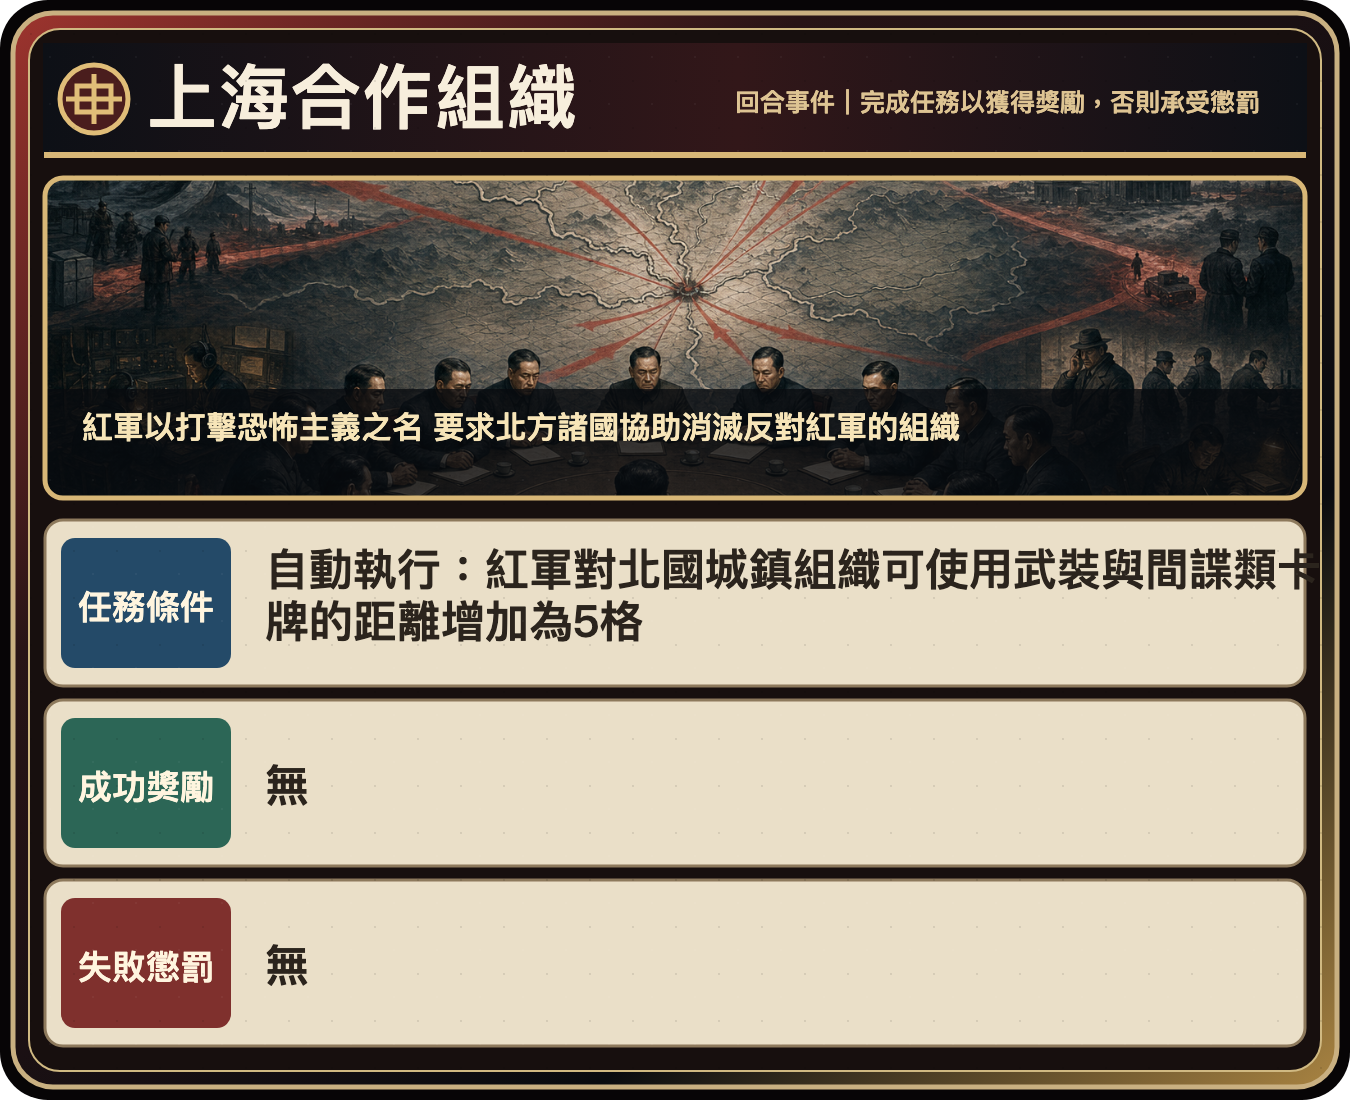
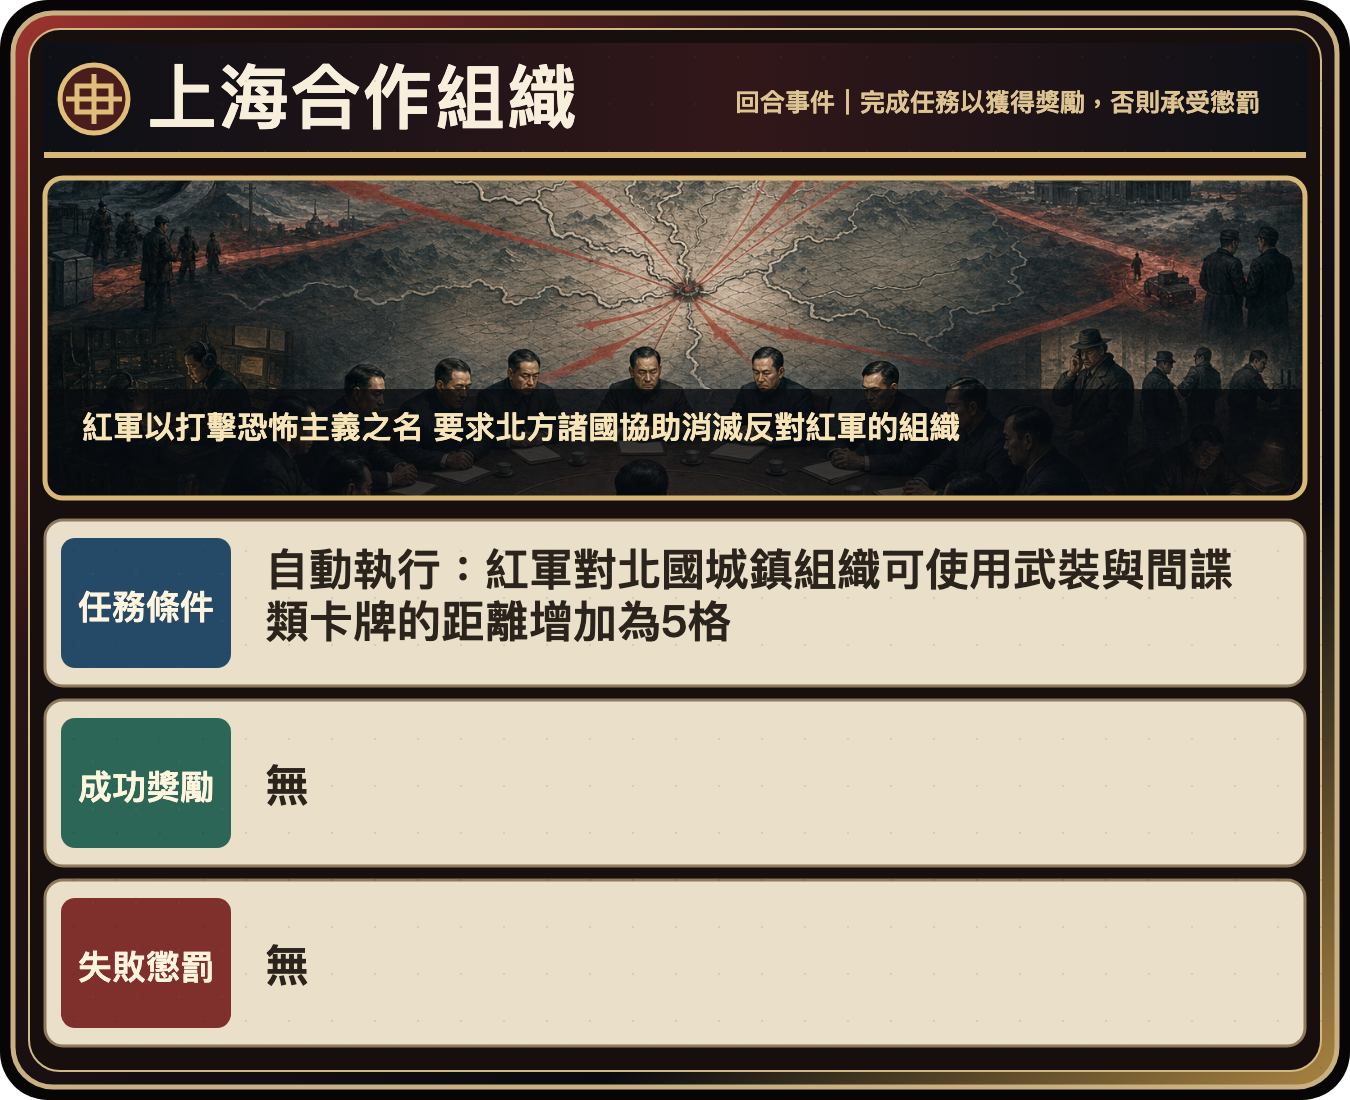
fix Shanghai event card text clipping

Changed region(s): [[0.1867, 0.5255, 0.56, 0.5873], [0.9022, 0.4945, 0.9644, 0.5564]]

diff --git a/static/index.html b/static/index.html
@@ -3,6 +3,7 @@
 <head>
   <meta charset="UTF-8" />
   <title>REDLINE // STRATEGIC COMMAND</title>
+  <link rel="icon" href="data:," />
   <link rel="stylesheet" href="/static/style.css?v=playtest-batch2-20260729" />
 </head>
 <body>

diff --git a/scripts/validate_shanghai_event_card_text_safe.py b/scripts/validate_shanghai_event_card_text_safe.py
@@ -1,0 +1,158 @@
+#!/usr/bin/env python3
+from __future__ import annotations
+
+import json
+import os
+import urllib.parse
+import urllib.request
+from pathlib import Path
+from typing import cast
+
+from PIL import Image
+from playwright.sync_api import sync_playwright
+
+ROOT = Path(__file__).resolve().parents[1]
+BASE_URL = os.environ.get('REDLINE_BASE_URL', 'http://127.0.0.1:8000')
+ASSET = ROOT / 'static/card-art/events/上海合作組織.png'
+OUT_DIR = ROOT / 'docs/records/event-cards'
+JSON_PATH = OUT_DIR / 'SHANGHAI_COOPERATION_TEXT_SAFE_VALIDATION.json'
+SCREENSHOT_PATH = OUT_DIR / 'SHANGHAI_COOPERATION_TEXT_SAFE_20260731.png'
+CHROME = Path('/Applications/Google Chrome.app/Contents/MacOS/Google Chrome')
+
+
+def is_dark_rgb(pixel: object) -> bool:
+    if not isinstance(pixel, tuple):
+        return False
+    channels = cast(tuple[int, ...], pixel)
+    return bool(channels) and max(channels) < 100
+
+
+def post_json(path: str, payload: dict) -> dict:
+    request = urllib.request.Request(
+        BASE_URL + path,
+        data=json.dumps(payload, ensure_ascii=False).encode('utf-8'),
+        headers={'Content-Type': 'application/json'},
+    )
+    with urllib.request.urlopen(request, timeout=20) as response:
+        return json.loads(response.read().decode('utf-8'))
+
+
+def main() -> None:
+    OUT_DIR.mkdir(parents=True, exist_ok=True)
+    with Image.open(ASSET) as image:
+        asset_size = image.size
+        rgb = image.convert('RGB')
+        # The mission body occupies y=540..660. Text in this right-side safety strip
+        # means the rendered glyphs have reached the panel edge and risk clipping.
+        safety_strip = rgb.crop((1260, 540, 1295, 660))
+        pixels = safety_strip.load()
+        dark_pixels = sum(
+            1
+            for x in range(safety_strip.width)
+            for y in range(safety_strip.height)
+            if pixels is not None and is_dark_rgb(pixels[x, y])
+        )
+
+    fixture = post_json(
+        '/test/setup-event-card-proof',
+        {'event_name': '上海合作組織', 'current_event_active': True, 'viewer_faction': 'taiwan'},
+    )
+    url = f"{BASE_URL}{fixture['url']}&v=shanghai-text-safe-20260731"
+
+    console_errors: list[str] = []
+    http_errors: list[dict] = []
+    with sync_playwright() as playwright:
+        browser = playwright.chromium.launch(headless=True, executable_path=str(CHROME))
+        page = browser.new_page(viewport={'width': 1280, 'height': 720})
+        page.on('console', lambda message: console_errors.append(message.text) if message.type == 'error' else None)
+        page.on(
+            'response',
+            lambda response: http_errors.append({'status': response.status, 'url': response.url})
+            if response.status >= 400
+            else None,
+        )
+        page.goto(url, wait_until='networkidle')
+        page.locator('#eventRevealModal').wait_for(state='visible', timeout=10000)
+        page.wait_for_function(
+            """() => {
+              const image = document.querySelector('#eventRevealCard .event-card-art-image');
+              return image && image.complete && image.naturalWidth === 1350 && image.naturalHeight === 1100;
+            }""",
+            timeout=10000,
+        )
+        page.wait_for_timeout(300)
+        browser_state = page.evaluate(
+            """() => {
+              const modal = document.getElementById('eventRevealModal');
+              const card = document.getElementById('eventRevealCard');
+              const image = card.querySelector('.event-card-art-image');
+              const rect = image.getBoundingClientRect();
+              return {
+                modalVisible: getComputedStyle(modal).display === 'flex',
+                imageSrc: image.currentSrc || image.src,
+                imageAlt: image.alt,
+                naturalWidth: image.naturalWidth,
+                naturalHeight: image.naturalHeight,
+                renderedWidth: rect.width,
+                renderedHeight: rect.height,
+                renderedRatio: rect.width / rect.height,
+                viewportWidth: window.innerWidth,
+                viewportHeight: window.innerHeight,
+                insideViewport: rect.left >= 0 && rect.top >= 0 && rect.right <= window.innerWidth && rect.bottom <= window.innerHeight,
+                statusText: card.innerText,
+              };
+            }"""
+        )
+        page.screenshot(path=str(SCREENSHOT_PATH), full_page=True)
+        browser.close()
+
+    native_ratio = 1350 / 1100
+    unexpected_http_errors = [item for item in http_errors if not item['url'].endswith('/favicon.ico')]
+    effective_console_errors = [
+        message
+        for message in console_errors
+        if not (
+            message == 'Failed to load resource: the server responded with a status of 404 (Not Found)'
+            and http_errors
+            and not unexpected_http_errors
+        )
+    ]
+    checks = {
+        'runtime_asset_is_1350x1100': asset_size == (1350, 1100),
+        'mission_text_respects_right_safety_strip': dark_pixels == 0,
+        'modal_is_visible': browser_state['modalVisible'],
+        'correct_runtime_asset_is_bound': '上海合作組織.png' in urllib.parse.unquote(browser_state['imageSrc']),
+        'image_alt_is_meaningful': browser_state['imageAlt'] == '上海合作組織完整卡面',
+        'browser_loaded_native_dimensions': browser_state['naturalWidth'] == 1350 and browser_state['naturalHeight'] == 1100,
+        'rendered_ratio_is_preserved': abs(browser_state['renderedRatio'] - native_ratio) < 0.01,
+        'rendered_card_stays_inside_viewport': browser_state['insideViewport'],
+        'runtime_status_is_present': '進行中' in browser_state['statusText'],
+        'console_has_no_errors': not effective_console_errors and not unexpected_http_errors,
+    }
+    payload = {
+        'summary': {
+            'total': len(checks),
+            'passed': sum(checks.values()),
+            'failed': len(checks) - sum(checks.values()),
+        },
+        'checks': checks,
+        'asset': {
+            'path': str(ASSET.relative_to(ROOT)),
+            'size': list(asset_size),
+            'right_safety_strip_dark_pixels': dark_pixels,
+        },
+        'browser': browser_state,
+        'console_errors': console_errors,
+        'effective_console_errors': effective_console_errors,
+        'http_errors': http_errors,
+        'unexpected_http_errors': unexpected_http_errors,
+        'screenshot': str(SCREENSHOT_PATH.relative_to(ROOT)),
+    }
+    JSON_PATH.write_text(json.dumps(payload, ensure_ascii=False, indent=2) + '\n', encoding='utf-8')
+    print(json.dumps(payload['summary'], ensure_ascii=False))
+    if payload['summary']['failed']:
+        raise SystemExit(1)
+
+
+if __name__ == '__main__':
+    main()

diff --git a/scripts/validate_event_card_zoom_preview.py b/scripts/validate_event_card_zoom_preview.py
@@ -11,6 +11,7 @@ from playwright.sync_api import sync_playwright
 BASE = Path(__file__).resolve().parent.parent
 BASE_URL = os.environ.get("REDLINE_BASE_URL", "http://127.0.0.1:8000")
 RECORD_DIR = BASE / "docs/records/event-cards"
+CHROME = Path("/Applications/Google Chrome.app/Contents/MacOS/Google Chrome")
 JSON_PATH = RECORD_DIR / "EVENT_CARD_ZOOM_PREVIEW_VALIDATION.json"
 MD_PATH = RECORD_DIR / "EVENT_CARD_ZOOM_PREVIEW_VALIDATION.md"
 OPEN_SHOT = RECORD_DIR / "EVENT_CARD_ZOOM_PREVIEW_OPEN_2026_07_28.png"
@@ -48,8 +49,8 @@ def main() -> None:
         checks,
         "zoom_animation_compact_panel_and_current_cache_bust_exist",
         "@keyframes event-card-zoom-in" in css
-        and "style.css?v=merged-personal-info-20260728" in html
-        and "app.js?v=merged-personal-info-20260728" in html
+        and "style.css?v=playtest-batch2-20260729" in html
+        and "app.js?v=playtest-batch2-20260729" in html
         and "width: 180px" in css
         and "height: 147px" in css,
         "zoom keyframes + compact event panel + current static cache bust",
@@ -62,7 +63,7 @@ def main() -> None:
     url = f"{BASE_URL}{setup['url']}&v=event-card-zoom-preview"
 
     with sync_playwright() as playwright:
-        browser = playwright.chromium.launch(headless=True)
+        browser = playwright.chromium.launch(headless=True, executable_path=str(CHROME))
         page = browser.new_page(viewport={"width": 1280, "height": 720})
         console_errors: list[str] = []
         page.on("console", lambda message: console_errors.append(message.text) if message.type == "error" else None)

diff --git a/TODO.md b/TODO.md
@@ -17,6 +17,30 @@
 
 ## 目前 active todo
 
+### P1：多張建立組織卡可累積後在地圖一次結算
+- [todo] 玩家可能連續打出多張「可以建立組織」的卡牌；系統應先累積各張卡提供的待建立次數，再讓玩家於戰略地圖連續完成全部組織建立，而不是第一張卡產生 pending choice 後就阻止後續建立卡出牌。此能力需通用支援所有建立組織卡，不只特判 `宣傳家`。每建立一次後都要重新計算合法城鎮與組織棋供應，地圖顯示剩餘建立數，並保留各張卡其他效果及其正確結算順序。（2026-07-31 操作流程回報）
+
+### P1：所有奧援卡的事件任務進度稽核
+- [todo] 已觀察到目前事件為 `東突厥集中營`時，玩家打出 `臺灣奧援`沒有計入原本應滿足的任務條件；懷疑所有奧援卡都可能因共用的 support 類型判定而被排除於事件任務進度之外。後續不能只修 `臺灣奧援`特例：需逐一檢查所有奧援卡 × 所有適用事件任務條件，對照事件原文確認實際條件欄位，檢查出牌進度 hook、奧援卡費用／類型判定與成功結算時點，並補共用 runtime matrix 及代表性正式 UI regression。（2026-07-31 事件回報；後續補充為所有奧援卡可能同型）
+
+### P1：`合作談判`可指定敵對玩家
+- [todo] `合作談判`的指定對象不受陣營、陣營關係或敵我限制；行動玩家可以選擇任意一名其他玩家，包含敵對玩家。後續需確認候選投影、後端 target validation 與 UI 玩家選單皆不會排除敵對玩家，並維持只有行動玩家與被選中的玩家各抽 1 張牌。（2026-07-31 規則回報）
+
+### P1：根據地瓦解與紅軍根據地失效規則
+- [todo] 一般陣營的根據地不可被瓦解；紅軍根據地是唯一例外，可以成為瓦解目標。只有當「同一名玩家」在「同一回合」對紅軍根據地成功瓦解累計兩次，紅軍才不能再於該根據地建立組織。後續需逐項核對瓦解合法目標、成功次數歸屬、跨玩家／跨回合重置，以及所有建立來源是否共同封鎖該根據地。（2026-07-31 規則回報）
+
+### P1：奧援卡 II／III 級的「最多組織」門檻
+- [todo] 所有奧援卡升到 II 級以上時，必須依各卡面指定地區檢查玩家是否在該地區擁有「最多的組織」，不能只因該地區至少有 1 個己方組織就觸發 II／III 級功能。後續修正需逐張核對卡面指定地區、II／III 級條件及平手時的判定，再補 tier detection regression 與正式 UI proof。（2026-07-31 規則回報）
+
+### P2：`上海合作組織`卡面說明文字被右側裁切
+- [done] 已確認裁切存在於 runtime 原始 PNG，而非瀏覽器 DOM／CSS。重新以 canonical 事件文字與既有插圖排版 `上海合作組織`完整卡面，將無標點長句改為 22 字安全寬度硬換行；任務文字現完整留在白色內容框內，右側安全區無深色文字像素。新增專用 validator，覆蓋 1350×1100 資產、runtime 綁定、右側安全區、放大卡比例、視窗邊界、狀態列及 console error，正式 UI proof 10/10 passed。（2026-08-01 完成）
+
+### P2：遊戲區域寬度與卡牌邊界裁切
+- [todo] 手牌區與隨機購買區的可用寬度再加寬，避免部分視窗尺寸或卡牌排列下，最外側卡牌剛好被容器邊界裁切；常設購買區可稍微縮窄，將版面寬度讓給手牌與隨機購買區。後續需以正式 UI 在常見桌面寬度與臨界寬度檢查最左／最右卡牌完整可見、控制按鈕不被截斷，且不得產生不必要的水平捲動。（2026-07-31 UI 回報）
+
+### P2：無合法鄰近組織提示中文化
+- [todo] 武裝牌等需要選擇鄰近組織目標的操作，當目標玩家附近沒有合法組織時，將瀏覽器提示 `Target player has no organization within range` 改成清楚的繁體中文；參考文案：「目標玩家沒有位於範圍內的組織。」（2026-07-31 截圖回報）
+
 ### P0：一城一組織 invariant 與共用組織語義
 - [done] 全場每個城鎮最多 1 個實體組織；香港／粵／澳門共用同一枚組織，不是同城疊放例外。
   - 2026-07-28：`rules.md` 補上共用組織的建立起點、移動、瓦解、計數與所有權轉移語義；建立、卡牌／事件／時代效果、移動、根據地選擇及香港根據地遷移均統一檢查實體佔位。
